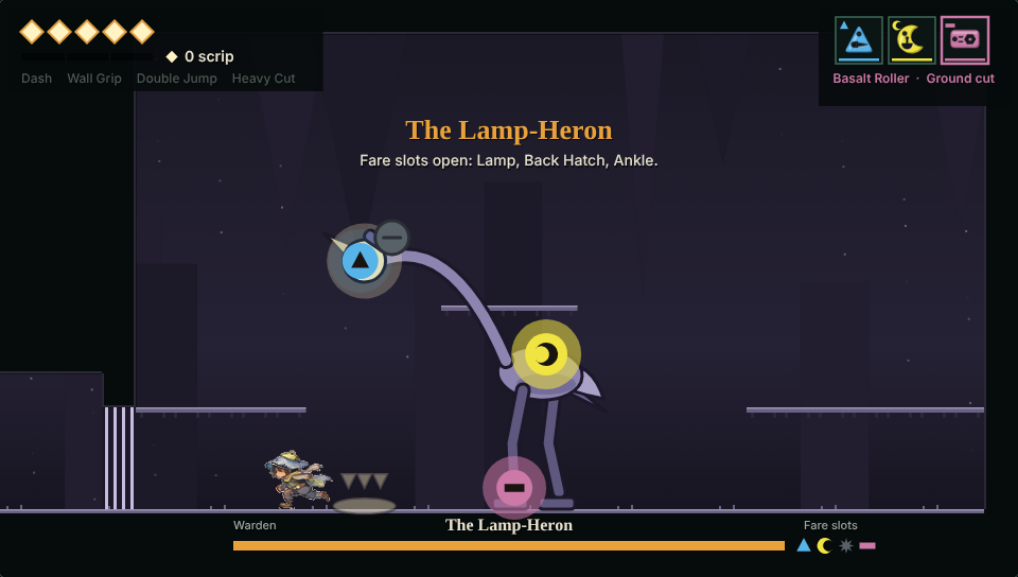
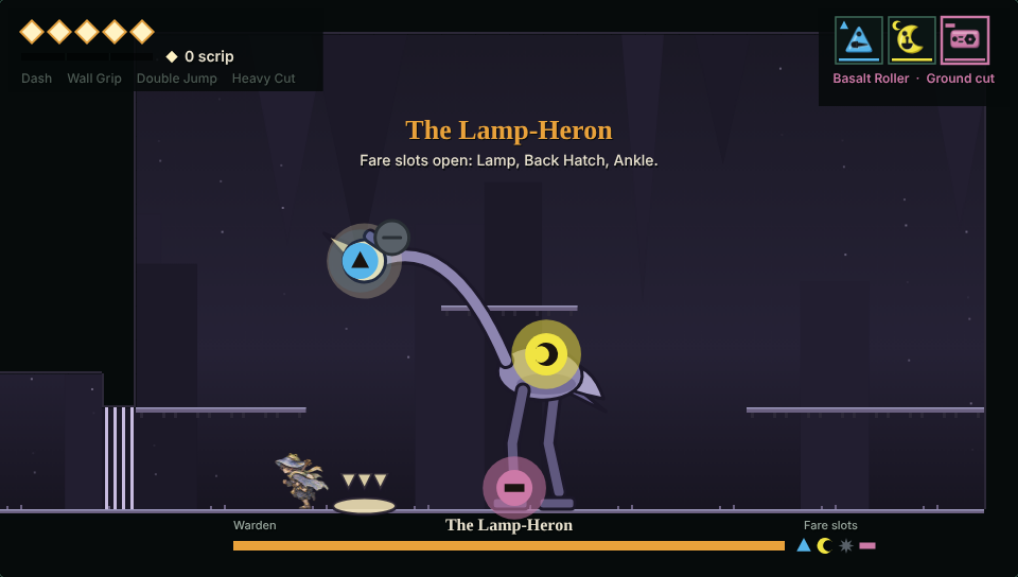
The Wanderer: full watercolor animation set for player 1
19 strips cut from the owner's generated sheets; the player picks a strip per state.
Pushed before the full test run at the owner's request; tests follow.

Claude-Session: https://claude.ai/code/session_01FSfHxkiMXJavUhRm9Y8A9M

Changed region(s): [[0.2436, 0.7799, 0.3959, 0.9047]]

diff --git a/js/game/player.js b/js/game/player.js
@@ -39,7 +39,7 @@ class Player {
     this.hp--; this.inv = M.INV; this.stun = 0.22; this.vx = (this.x < fromX ? -1 : 1) * 260 * G.run.mods.knockback; this.vy = -420;
     this.dashT = 0; this.healT = 0; this.slash = null; this.charge = 0; this.sliding = false; this.jumping = false;
     G.run.stats.hits++; if (this.hp > 0 && this.glow >= M.MEND_COST) G.tips.fire('mend'); fx.jolt(M.STOP_HURT, 10); fx.spark(this.x, this.cy, 14, '#fff3c4', 320, 0.4);
-    if (this.hp <= 0) { this.hp = 0; this.down = true; fx.spark(this.x, this.cy, 40, this.color, 420, 0.8); }
+    if (this.hp <= 0) { this.hp = 0; this.down = true; this.downAt = G.time; fx.spark(this.x, this.cy, 40, this.color, 420, 0.8); }
     return true;
   }
 
@@ -72,7 +72,7 @@ class Player {
   useItem() {
     const def = G.itemDefs[this.items[this.sel]];
     if (!def) return;
-    this.itemCd = def.cd * G.run.mods.itemCd; this.itemCdMax = this.itemCd;
+    this.itemCd = def.cd * G.run.mods.itemCd; this.itemCdMax = this.itemCd; this.castAt = G.time; this.castCls = def.cls;
     def.use(this);
   }
 
@@ -131,7 +131,7 @@ class Player {
           p.vy = -M.WJ_VY; p.vx = -p.wall * M.WJ_VX; p.wlock = M.WJ_LOCK; p.face = -p.wall; p.jumping = p.airJ = true; p.jbuf = 0; p.sliding = false;
           p.squash = -0.6; fx.dust(p.x + p.wall * 10, p.y - 10, 5, -p.wall);
         } else if (abil.double && p.canDouble) {
-          p.vy = -M.DJ_V; p.canDouble = false; p.jumping = p.airJ = true; p.jbuf = 0; p.squash = -0.6;
+          p.vy = -M.DJ_V; p.canDouble = false; p.djAt = G.time; p.jumping = p.airJ = true; p.jbuf = 0; p.squash = -0.6;
           fx.ring(p.x, p.y, 6, 160, '#62d2b4', 0.25); fx.spark(p.x, p.y, 8, '#62d2b4', 160, 0.35, 300);
         }
       }
@@ -227,17 +227,42 @@ function cloak(ctx, alpha, color) {
   ctx.globalAlpha = 1;
 }
 
+// Which watercolor strip and frame shows the player's current state. Order matters: the first match wins.
+function pickStrip(p) {
+  const t = G.time, since = at => (at === undefined ? 9 : t - at), step = (e, dur, n) => Math.min(n - 1, Math.floor(e / dur * n));
+  if (p.down) return ['ko', step(since(p.downAt), 0.5, 4)];
+  const hurtFor = p.inv > 0 ? (M.INV || 1) - p.inv : 9;
+  if (hurtFor >= 0 && hurtFor < 0.3 && p.stun > 0) return ['hurt', step(hurtFor, 0.3, 4)];
+  if (p.slash) {
+    const k = p.slash.t / p.slash.dur;
+    if (p.slash.heavy) return ['heavy', 2 + step(k, 1, 4)];
+    if (p.slash.dir === 'down') return ['slash_down', 1 + step(k, 1, 3)];
+    return ['slash_side', 1 + step(k, 1, 5)];
+  }
+  const cast = since(p.castAt);
+  if (cast < 0.32 && p.castCls) { const n = p.castCls === 'ground' ? 4 : 6; return [p.castCls, 1 + step(cast, 0.32, n - 1)]; }
+  if (p.dashT > 0) return ['dash', 1 + step(1 - p.dashT / (M.DASH_T || 0.155), 1, 2)];
+  if (p.charge > 0.2) return ['heavy', Math.floor(t * 6) % 2];
+  if (p.healT > 0) return ['mend', t * 5];
+  if (p.sliding) return ['wallslide', 1];
+  if (!p.onGround) {
+    const dj = since(p.djAt);
+    if (dj < 0.32) return ['doublejump', step(dj, 0.32, 4)];
+    return ['jump', p.vy < -140 ? 1 : p.vy < 160 ? 2 : 3];
+  }
+  if (Math.abs(p.vx) > 40) return ['run', t * 13];
+  if (p.squash > 0.2) return ['land', 1];
+  return ['idle', t * 5];
+}
+
 // Procedural painter for the player. opts.p is the Player.
 G.art.define('player', (ctx, o) => {
   const p = o.p, base = p.down ? 0.55 : (p.inv > 0 && Math.floor(G.time * 22) % 2 ? 0.45 : 1);
   ctx.globalAlpha = base;
-  // Watercolor test (F2 toggles; player 1 only): strips replace the code-drawn body and scarf. Missing files fall through to the code-drawn player.
+  // Watercolor player (F2 toggles; player 1 only): strips replace the code-drawn body and scarf. Missing files fall through to the code-drawn player.
   if (G.artTest && p.index === 0 && G.art.hasStrip('player_idle') && G.art.hasStrip('player_run')) {
-    const o2 = { x: p.x, y: p.y, face: p.face, h: 96 * 60 / 67, foot: 2 };            // the figure is 67 px tall in a 96 px frame: scale it to about 60
-    const moving = p.onGround && Math.abs(p.vx) > 40 && !p.down;
-    if (p.dashT > 0 || (!p.onGround && !p.down)) G.art.drawFrame('player_run', ctx, 6, o2);        // the most stretched frame
-    else if (moving) G.art.drawFrame('player_run', ctx, G.time * 12, o2);
-    else G.art.drawFrame('player_idle', ctx, G.time * 5, o2);
+    const [name, frame] = pickStrip(p);
+    G.art.drawFrame(G.art.hasStrip('player_' + name) ? 'player_' + name : 'player_idle', ctx, frame, { x: p.x, y: p.y, face: p.face, h: 68, foot: 4 });
     ctx.globalAlpha = 1; return;
   }
   ctx.strokeStyle = '#62d2b4'; ctx.lineWidth = 4.5; ctx.lineCap = 'round'; ctx.lineJoin = 'round';

diff --git a/js/art/sprites.js b/js/art/sprites.js
@@ -26,6 +26,7 @@ const loadStrip = (key, file, frames) => {
   img.onerror = () => done(false);
   img.src = 'assets/' + file;
 };
-loadStrip('player_idle', 'player/idle.png', 4);
-loadStrip('player_run', 'player/run.png', 8);
+// The Wanderer: cut from the owner's watercolor sheets by tools/art (frames are 192 x 136 at twice game scale, feet 4 px above the bottom edge).
+const PLAYER_STRIPS = { arc: 6, burst: 6, dash: 4, doublejump: 4, ground: 4, heavy: 6, hurt: 4, idle: 4, interact: 4, jump: 4, ko: 4, land: 4, mend: 4, pierce: 6, revive: 4, run: 8, slash_down: 4, slash_side: 6, wallslide: 4 };
+for (const name in PLAYER_STRIPS) loadStrip('player_' + name, 'player/' + name + '.png', PLAYER_STRIPS[name]);
 })();

diff --git a/tools/art/cut_wanderer.py b/tools/art/cut_wanderer.py
@@ -1,0 +1,61 @@
+import sys, os, glob, json, re
+import numpy as np
+from PIL import Image
+from scipy import ndimage as ndi
+src=sys.argv[1]; out=sys.argv[2]; os.makedirs(out,exist_ok=True)
+LAY={4:(4,1),6:(3,2),8:(4,2)}
+FACT=dict(idle=1.0,run=0.88,jump=1.0,land=1.0,dash=0.62,wallslide=0.95,doublejump=0.85,slash_side=0.93,slash_down=0.95,heavy=0.88,
+          pierce=0.97,arc=1.0,burst=0.98,ground=0.8,mend=0.72,hurt=0.97,ko=0.93,revive=1.0,interact=1.03)
+TARGET=120
+frames={}
+for f in sorted(glob.glob(src+'/*.png')):
+    m=re.match(r'wanderer_(.+)_f(\d+)\.png',os.path.basename(f))
+    if not m or m.group(1)=='ref': continue
+    name,n=m.group(1),int(m.group(2)); cols,rows=LAY[n]
+    im=np.asarray(Image.open(f).convert('RGBA')).astype(np.float32)
+    A=im[...,3]/255.0; H,W=A.shape
+    border=np.concatenate([A[:6].ravel(),A[-6:].ravel(),A[:,:6].ravel(),A[:,-6:].ravel()])
+    hazy=np.median(border)>0.03 or np.percentile(border,90)>0.08
+    mask=A>(0.8 if hazy else 0.2)
+    mask=ndi.binary_opening(mask,iterations=1 if not hazy else 2)
+    lab,k=ndi.label(ndi.binary_closing(mask,iterations=2))
+    if k==0: print('EMPTY',name); continue
+    idx=np.arange(1,k+1); area=ndi.sum(np.ones_like(lab),lab,idx); cen=ndi.center_of_mass(np.ones_like(lab),lab,idx)
+    cells={}
+    for i,a,(cy,cx) in zip(idx,area,cen):
+        if a<80: continue
+        c=min(cols-1,int(cx/(W/cols))); r=min(rows-1,int(cy/(H/rows)))
+        cells.setdefault(r*cols+c,[]).append((a,i))
+    got=[]
+    for ci in range(n):
+        comps=sorted(cells.get(ci,[]),reverse=True)
+        if not comps: print('MISSING frame',name,ci); continue
+        big=comps[0][0]; keep=[i for a,i in comps if a>=0.012*big]
+        fm=np.isin(lab,keep)
+        ys,xs=np.where(fm); y0,y1,x0,x1=ys.min(),ys.max()+1,xs.min(),xs.max()+1
+        soft=ndi.binary_dilation(fm,iterations=2)[y0:y1,x0:x1]
+        rgba=im[y0:y1,x0:x1].copy(); al=A[y0:y1,x0:x1]*soft
+        if hazy: al=np.clip((al-0.55)/0.4,0,1)
+        rgba[...,3]=al*255
+        got.append(Image.fromarray(rgba.astype(np.uint8),'RGBA'))
+    hs=[g.height for g in got]; S=max(hs)/FACT[name]; sc=TARGET/S
+    fr=[]
+    for g in got:
+        g=g.resize((max(1,round(g.width*sc)),max(1,round(g.height*sc))),Image.LANCZOS)
+        a=np.asarray(g)[...,3].astype(float); col=a.sum(0); cum=np.cumsum(col); cx=int(np.searchsorted(cum,cum[-1]/2))
+        fr.append((g,cx))
+    frames[name]=fr
+    print(f'{name:11s} n={len(fr)} hazy={int(hazy)} src_h={max(hs)} scale={sc:.3f} maxw={max(g.width for g,_ in fr)} maxh={max(g.height for g,_ in fr)}')
+# uniform cell
+half=max(max(cx,g.width-cx) for fr in frames.values() for g,cx in fr); CW=int(np.ceil(2*half/16)*16)+16; CH=int(np.ceil(max(g.height for fr in frames.values() for g,_ in fr)/16)*16)+8
+meta={'cell':[CW,CH],'scale':2,'anims':{}}
+for name,fr in frames.items():
+    strip=Image.new('RGBA',(CW*len(fr),CH),(0,0,0,0))
+    for i,(g,cx) in enumerate(fr): strip.alpha_composite(g,(i*CW+CW//2-cx,CH-4-g.height))
+    strip.save(f'{out}/{name}.png'); meta['anims'][name]=len(fr)
+json.dump(meta,open(out+'/strips.json','w'),indent=1); print('cell',CW,CH)
+names=list(frames); sheet=Image.new('RGBA',(CW*8,CH*len(names)),(24,44,44,255))
+for r,name in enumerate(names): sheet.alpha_composite(Image.open(f'{out}/{name}.png'),(0,r*CH))
+for r in range(len(names)):  # foot line guide
+    for x in range(0,sheet.width,6): sheet.putpixel((x,r*CH+CH-4),(90,120,110,255))
+sheet=sheet.resize((sheet.width*2//5,sheet.height*2//5),Image.LANCZOS).convert('RGB'); sheet.save(sys.argv[3],quality=85); print('contact',sheet.size,names)

diff --git a/tools/art/inspect.py b/tools/art/inspect.py
@@ -1,0 +1,12 @@
+import sys, os, glob
+from PIL import Image
+root=sys.argv[1]; out=sys.argv[2]
+fs=sorted([f for f in glob.glob(root+'/**/*',recursive=True) if f.lower().endswith(('.png','.jpg','.jpeg','.webp'))])
+thumbs=[]
+for f in fs:
+    im=Image.open(f); print(os.path.relpath(f,root), im.size, im.mode, 'alpha-range', im.getchannel('A').getextrema() if im.mode=='RGBA' else '-', 'corner', im.convert('RGBA').getpixel((3,3)))
+    t=im.convert('RGBA'); bg=Image.new('RGBA',t.size,(40,60,60,255)); bg.alpha_composite(t); bg.thumbnail((640,430)); thumbs.append(bg.convert('RGB'))
+cols=3; rows=(len(thumbs)+cols-1)//cols
+sheet=Image.new('RGB',(cols*650,rows*440),(10,10,10))
+for i,t in enumerate(thumbs): sheet.paste(t,((i%cols)*650+5,(i//cols)*440+5))
+sheet.save(out,quality=80); print('sheet',sheet.size,len(thumbs))
